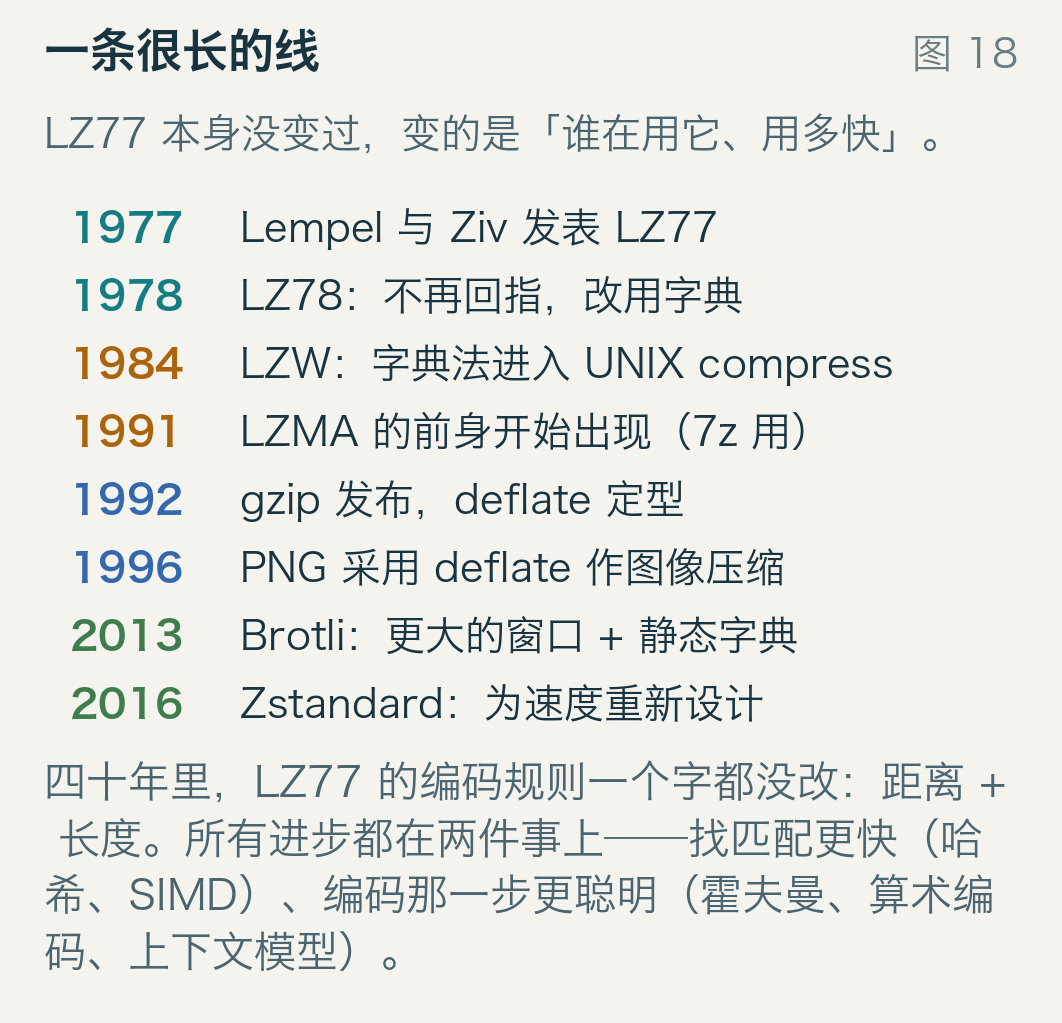
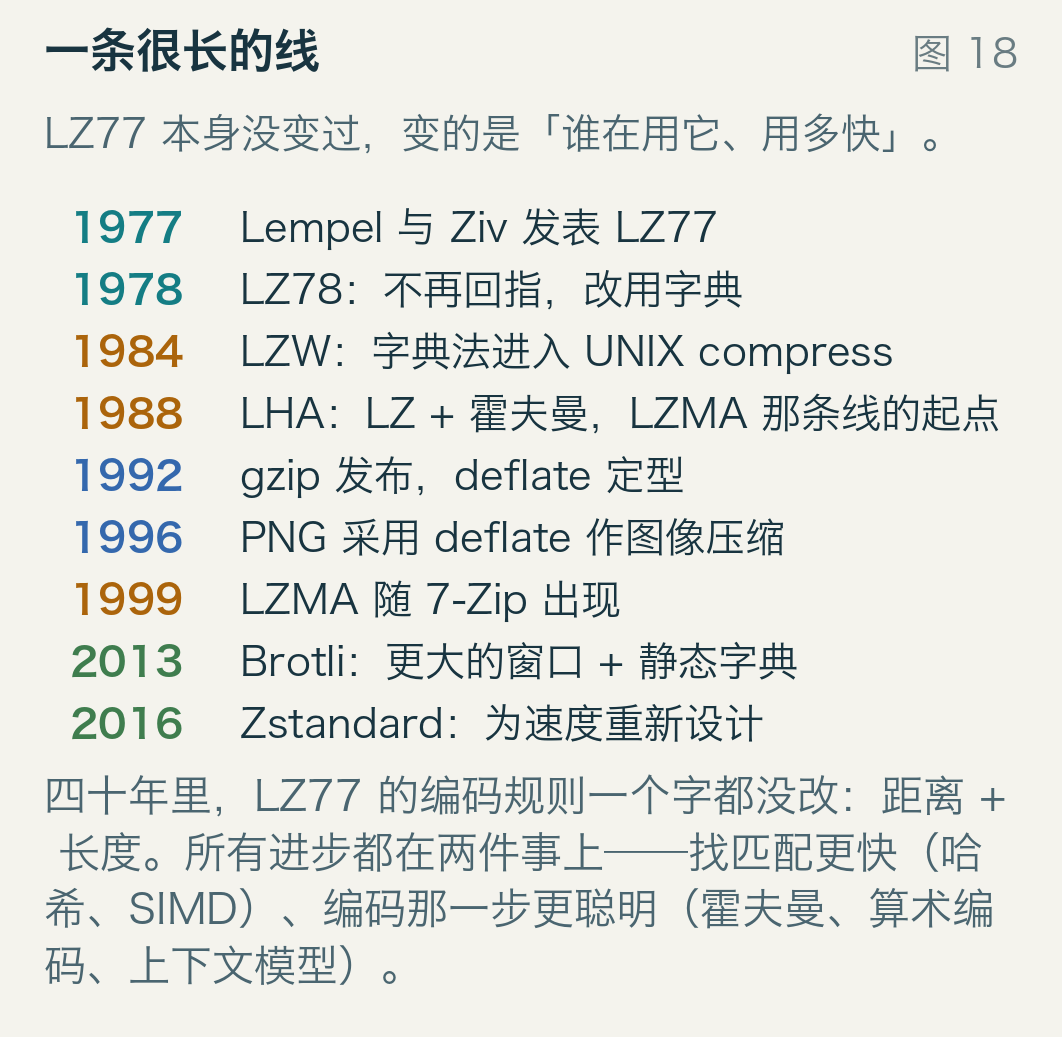
Fix what the proofread caught: stale deflate size, FM ratio physics, LZ timeline, missing photo metadata

diff --git a/articles/2026-11-02-lz77-sliding-window/examples/build_figures.py b/articles/2026-11-02-lz77-sliding-window/examples/build_figures.py
@@ -535,15 +535,16 @@ def fig18():
     rows = [('1977', 'Lempel 与 Ziv 发表 LZ77', TEAL),
             ('1978', 'LZ78：不再回指，改用字典', TEAL),
             ('1984', 'LZW：字典法进入 UNIX compress', AMBER),
-            ('1991', 'LZMA 的前身开始出现（7z 用）', AMBER),
+            ('1988', 'LHA：LZ + 霍夫曼，LZMA 那条线的起点', AMBER),
             ('1992', 'gzip 发布，deflate 定型', BLUE),
             ('1996', 'PNG 采用 deflate 作图像压缩', BLUE),
+            ('1999', 'LZMA 随 7-Zip 出现', AMBER),
             ('2013', 'Brotli：更大的窗口 + 静态字典', GREEN),
             ('2016', 'Zstandard：为速度重新设计', GREEN)]
     for year, text, color in rows:
         f.text((70, y), year, 40, bold=True, color=color)
         f.text((240, y), text, 40)
-        y += 68
+        y += 62
     y += 10
     y = note(f, y, '四十年里，LZ77 的编码规则一个字都没改：距离 + 长度。'
                    '所有进步都在两件事上——找匹配更快（哈希、SIMD）、'

diff --git a/articles/2026-11-02-fm-synthesis-dx7/read.md b/articles/2026-11-02-fm-synthesis-dx7/read.md
@@ -74,7 +74,7 @@ Chowning 意识到了这两件事的差别：**通信工程师在努力去掉的
 - 1983 年，DX7，价格降到普通乐手能承受的范围，卖出了二十万台上下；
 - 斯坦福从这项专利里收到了两千万美元量级的授权费，是大学技术转移最常被引用的案例之一。
 
-有一个细节值得说：**DX7 实现的其实不是调频，是调相**（phase modulation）。数学上它们是近亲（对一个正弦来说，改频率和改相位都相当于在相位上做文章，只是积分关系），但电路上差别很大：调相可以直接在相位累加器上加一个偏移，载波频率不会因为调制而漂移。所以下面我讲的全部是调相，只是历史上一直叫它 FM。
+有一个细节值得说：**DX7 实现的其实不是调频，是调相**（phase modulation）。两者只差一个积分：调频是把调制信号先积分再塞进相位，调相是直接塞进去。电路上这个差别很大——调相就是在相位累加器上加一个偏移，载波频率不会因为调制而漂移。所以下面我讲的全部是调相，只是历史上一直叫它 FM。
 
 ## 四、把"推"写成一个公式
 
@@ -129,7 +129,7 @@ x(t) = (1 + d·sin(2π·fm·t)) · sin(2π·fc·t)
 
 ![4:1 比率、I=2 的频谱](assets/07-fm-spectrum.png)
 
-一共 10 条。它们全都在 110 的整数倍上：110、220、330、440、550…… 频率越高越弱，最远的几条（1098、990）已经低于 −38 dB 了。
+一共 10 条。它们全都在 110 的整数倍上：110、220、330、440、550…… 频率越高越弱，最远的两条（1100 和 990 Hz 附近）已经掉到 −54 和 −38 dB 了。
 
 这就是"边带"的位置规则：
 
@@ -157,15 +157,15 @@ x(t) = (1 + d·sin(2π·fm·t)) · sin(2π·fc·t)
 
 ![调制指数与边带数量](assets/09-index-ladder.png)
 
-- I = 0.5：载波最强，只有紧邻的两三条边带听得见，接近纯音；
+- I = 0.5：载波最强，一共 7 条线，离得远的那几条已经掉了 30 dB，听起来接近纯音；
 - I = 2：10 条，已经像一件乐器；
-- I = 6：16 条以上，能量撒到了整个 0–1.8 kHz，听起来像铜管或失真吉他。
+- I = 6：16 条，能量撒到了整个 0–1.8 kHz，听起来像铜管或失真吉他。
 
 注意，这个过程里**音高一直没变**。改的只是"频谱里有多少条线、每条多强"。这就是为什么 DX7 上有一个叫"输出电平"的参数直接对应每个算子的 I——它其实是音色旋钮。
 
 ## 八、代价：带宽
 
-边带多了，占的频谱就宽了。这是 FM 在通信里被嫌弃、在音乐里被喜欢的原因。
+边带多了，占的频谱就宽了。带宽是 FM 的账单：在频谱紧张的地方，宽就是缺点；在合成器里，宽就是音色。
 
 带宽有一个经验公式，叫 Carson 规则：
 
@@ -187,7 +187,7 @@ x(t) = (1 + d·sin(2π·fm·t)) · sin(2π·fc·t)
 
 ![带宽](assets/10-bandwidth.png)
 
-实测总在预测的上方。这不奇怪：Carson 规则算的是"包含 98% 能量"的带宽，而我按 −40 dB 数的是"还能看见的最远一条"，标准更严。系数上大概是 (I + 2)·fm 那个量级。
+实测总在预测的上方。这不奇怪：Carson 规则算的是"包含 98% 能量"的带宽，而我按−40 dB 数的是"还能看见的最远一条"，标准更严。实测边界大约落在 (I + 2)·fm 到 (I + 3)·fm 之间：I = 1 时多两条，I ≥ 2 时多三条。
 
 对做音乐的人来说，这意味着：**I 越大，音色越亮，同时占的频带越宽。** 在一台 16 声部的合成器里，这件事会直接变成"同时能响几个音"的算术题。
 
@@ -205,18 +205,20 @@ x(t) = (1 + d·sin(2π·fm·t)) · sin(2π·fc·t)
 
 上图是 1.414 : 1（就是 √2）。载波还是 440，边带位置变成 440 ± n×311，落点全歪了——网格线是 440 的整数倍，你会看到大部分线不在格子上。
 
-四种比率的实测结果：
+四种比率的实测结果（按它们是否落在 fm 的整数倍上分）：
 
-| fc : fm | 落在谐波上 | −45 dB 内的分音数 |
-|---|---|---|
-| 4 : 1 | 是 | 9 |
-| 2 : 1 | 是 | 7 |
-| 1.5 : 1 | 否 | 7 |
-| 1.414 : 1 | 否 | 11 |
+| fc : fm | 实际 fm | 落在 fm 的整数倍上 | −45 dB 内的分音数 |
+|---|---|---|---|
+| 4 : 1 | 110 Hz | 是 | 9 |
+| 2 : 1 | 220 Hz | 是 | 7 |
+| 1.5 : 1 | 293.3 Hz | 否（落在 146.7 的奇数倍上） | 7 |
+| 1.414 : 1 | 311.1 Hz | 否（没有公共基频） | 11 |
 
-表里有个反直觉的地方：**1.5 : 1 不是"简单分数就和谐"**。1.5 的边带落在 146.7 Hz 的倍数上，而 440 不是 146.7 的整数倍，于是整组边带和载波不成谐波关系——听到的是钟、是金属。真正决定"和谐"的是**整数倍**，不是分数简不简单。
+表里藏着一个容易被"简单分数就和谐"这句话带歪的地方。1.5 : 1 的边带是 146.7、440、733、1026……——它们全是 146.7 的奇数倍，所以它们**仍然有一个公共基频**，只不过这个基频比 440 低了一个十二度（三个 146.7 才到 440）。听到的是一个音，只是音高掉下去了。
 
-这也解释了 DX7 面板上那个"比率"参数为什么要用两个整数（比如 4 和 1）来设定：**保证整数比，才保证是乐音。** 想要钟声、想要金属，就把比率改成非整数。
+真正变"金属"的是 1.414 : 1。它的分音是 128.9、440、751.1、1062.2……（440 ± n × 311.1），间隔是 311.1，而 311.1 和 440 的比例是 √2——两个数除不尽，也就找不到一个能同时整除它们的基频。**周期不存在，音高也就不存在。**这是非谐和音色的物理定义。
+
+所以 DX7 面板上那个比率参数用两个整数来设，目的很具体：**让 fc/fm 是有理数，最好就是整数**。想要钟声、想要金属，就把比率推到一个无理数附近。
 
 ## 十、为什么当年不需要滤波器
 
@@ -339,8 +341,8 @@ DX7 内部有 6 个"算子"（operator）。每个算子就是一个正弦振荡
 `examples/` 里不需要任何第三方库（连 numpy 都没有，FFT 是自己写的 30 行）：
 
 ```bash
-python3 fm.py           # 打印关键数字
-python3 run_model.py    # 写成 results.json
+python3 examples/fm.py           # 打印关键数字
+python3 examples/run_model.py    # 写成 results.json
 ```
 
 三个可以改的地方：

diff --git a/articles/2026-11-02-lz77-sliding-window/read.md b/articles/2026-11-02-lz77-sliding-window/read.md
@@ -266,12 +266,12 @@ cat  →  20, 300, 517, 940
 |---|---|
 | 原始 | 24000 B |
 | 纯 LZ77（估算） | 27000 B |
-| deflate（实测） | 24024 B |
+| deflate（实测） | 24016 B |
 | 字节熵 | 7.99 bit |
 
 每个字面量 9 bit = 1.125 字节，所以比原文大 12.5%。
 
-真实的 deflate 只大 0.1%——因为它给"字面量"和"匹配"分别建了霍夫曼表，在没有匹配时表会退化成一棵几乎 8 bit 的树。但它**也没能压小**。
+真实的 deflate 只大 0.07%——因为它给"字面量"和"匹配"分别建了霍夫曼表，在没有匹配时表会退化成一棵几乎 8 bit 的树。但它**也没能压小**。
 
 这条边界很重要：**LZ77 不是"压缩算法"，是"找重复的算法"。** 没有重复，它就只是白加了一层开销。
 
@@ -301,11 +301,12 @@ cat  →  20, 300, 517, 940
 | 1977 | Lempel 与 Ziv 发表 LZ77 |
 | 1978 | LZ78：不再回指，改用显式字典 |
 | 1984 | LZW（Welch）：字典法进入 UNIX `compress`、GIF、TIFF |
-| 1991 | LZMA 的前身出现，后来成为 7z 的默认算法 |
+| 1988 | LHA：LZ 系加霍夫曼，是 LZMA 那条线的起点 |
 | 1992 | gzip 发布，deflate 定型 |
 | 1996 | PNG 采用 deflate；deflate 成为 RFC 1951 |
+| 1999 | LZMA 随 7-Zip 出现，用 range coder 替代霍夫曼 |
 | 2013 | Brotli：更大的窗口 + 内置静态字典 |
-| 2016 | Zstandard：为速度重新设计，压缩率和 zstd -1 相当但快得多 |
+| 2016 | Zstandard：为速度重新设计，比 gzip 压得小、快好几倍 |
 
 四十年里，**LZ77 的编码规则一个字都没改**：距离 + 长度。
 
@@ -314,7 +315,7 @@ cat  →  20, 300, 517, 940
 - **找匹配更快**：哈希链 → 二叉搜索树 → 后缀数组 → SIMD 比较；
 - **编码那一步更聪明**：霍夫曼 → 算术编码 → 上下文建模（LZMA 的 range coder）。
 
-至于为什么 LZ78/LZW 那条线后来输给了 LZ77：LZW 的字典是"从头建"的，遇到数据分布变化时恢复慢；LZ77 的窗口天然"忘掉"旧数据，更适合流式处理和变化的内容。而且 LZW 当年有专利（Uniswap 的 GIF 争议），这也推了一把。
+至于为什么 LZ78/LZW 那条线后来输给了 LZ77：LZW 的字典是"从头建"的，遇到数据分布变化时恢复慢；LZ77 的窗口天然"忘掉"旧数据，更适合流式处理和变化的内容。而且 LZW 当年有专利（Unisys 的 GIF 许可争议），这也推了一把。
 
 ## 十五、三句话
 
@@ -330,11 +331,11 @@ cat  →  20, 300, 517, 940
 
 ## 自己动手
 
-`examples/` 里只有一个文件需要读：
+只需要读一个文件 `examples/lz.py`：
 
 ```bash
-python3 run_model.py    # 全部测量 -> results.json
-python3 build_figures.py
+python3 examples/run_model.py    # 全部测量 -> examples/results.json
+python3 examples/build_figures.py
 ```
 
 三件可以改的事：

diff --git a/articles/2026-11-02-ethernet-collision-backoff/read.md b/articles/2026-11-02-ethernet-collision-backoff/read.md
@@ -255,11 +255,13 @@ S = G · e^(-G)，最大值在 G = 1 处，S = 1/e ≈ **0.368**。
 
 ![速度与距离](assets/16-speed-vs-reach.png)
 
-时隙固定是 512 bit。速率涨十倍，这段时间就短十倍；铜线上的信号速度不会变，于是往返能覆盖的距离也短十倍：10 Mbit/s 时是 5 公里（远超过实际需要），100 Mbit/s 时是 512 米，1 Gbit/s 时只剩 51 米。
+时隙固定是 512 bit。速率涨十倍，这段时间就短十倍；铜线上的信号速度不会变，于是往返能覆盖的距离也短十倍：10 Mbit/s 时算出来是 5 公里，100 Mbit/s 时是 512 米，1 Gbit/s 时只剩 51 米。
 
 **这就是"快"的代价：时钟越快，你能听见的回声范围就越小。**
 
-标准没有接受这个结果。百兆以太网直接改成**全双工**——收和发各用一对线，不再需要听别人，也就没有冲突，距离由信号质量决定（100 米）。千兆在半双工时用了"载波扩展"，把时隙拉长到 512 字节；等到全双工普及，这套东西就被协议降级成了可选项。
+有意思的是，10 Mbit/s 那 5 公里从来没用完过：标准实际规定的是最多 4 个中继器、5 段 500 米线，也就是 2.5 公里——把预算的一半留给了收发器延迟、接头和余量。工程上很少把预算算到刚好，因为"刚好"意味着没有余地。
+
+百兆时代是两件事同时发生。半双工还留着，但拓扑被钉成了星形、段数砍到两段；而全双工迅速成为默认——收和发各用一对线，不需要再听别人，也就没有冲突，距离由信号质量决定（100 米）。千兆在半双工时用了"载波扩展"，把时隙拉长到 512 字节；等到全双工普及，这套东西就被协议降级成了可选项。
 
 ## 十三、一帧长什么样
 
@@ -351,11 +353,11 @@ S = G · e^(-G)，最大值在 G = 1 处，S = 1/e ≈ **0.368**。
 
 ## 自己动手
 
-模拟器就在 `examples/` 里，不需要任何第三方库：
+模拟器不需要任何第三方库：
 
 ```bash
-python3 net.py          # 打印关键数字
-python3 run_model.py    # 写成 results.json
+python3 examples/net.py          # 打印关键数字
+python3 examples/run_model.py    # 写成 results.json
 ```
 
 三个可以改的地方，改完重新跑，看数字怎么变：

diff --git a/articles/2026-11-02-fm-synthesis-dx7/README.md b/articles/2026-11-02-fm-synthesis-dx7/README.md
@@ -7,7 +7,7 @@
 
 ```sh
 python3 examples/run_model.py       # 全部测量 -> examples/results.json
-python3 examples/build_figures.py   # 16 张正文图 + cover.png
+python3 examples/build_figures.py   # 16 张示意图 + cover.png
 python3 examples/photos.py          # 3 张照片/文件的版式（需要 originals/）
 ```
 

diff --git a/articles/2026-11-02-ethernet-collision-backoff/README.md b/articles/2026-11-02-ethernet-collision-backoff/README.md
@@ -7,7 +7,7 @@
 
 ```sh
 python3 examples/run_model.py       # 全部测量 -> examples/results.json
-python3 examples/build_figures.py   # 19 张正文图 + cover.png
+python3 examples/build_figures.py   # 19 张示意图 + cover.png
 python3 examples/photos.py          # 3 张照片的版式（需要 originals/）
 ```
 

diff --git a/articles/2026-11-02-lz77-sliding-window/README.md b/articles/2026-11-02-lz77-sliding-window/README.md
@@ -7,7 +7,7 @@
 
 ```sh
 python3 examples/run_model.py       # 全部测量 -> examples/results.json
-python3 examples/build_figures.py   # 17 张正文图 + cover.png
+python3 examples/build_figures.py   # 17 张示意图 + cover.png
 python3 examples/photos.py          # 2 张肖像（需要 originals/）
 ```
 
